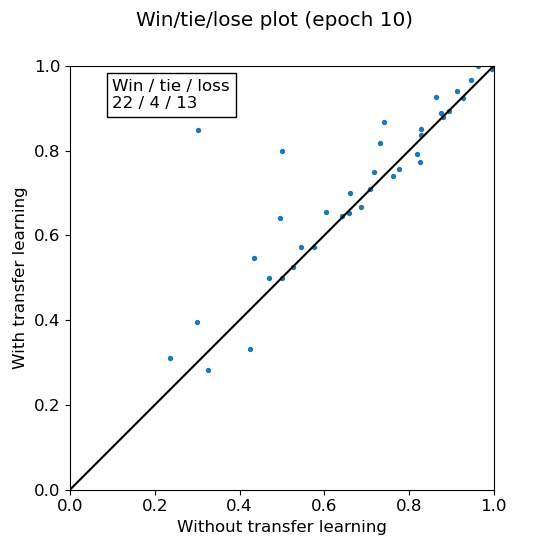
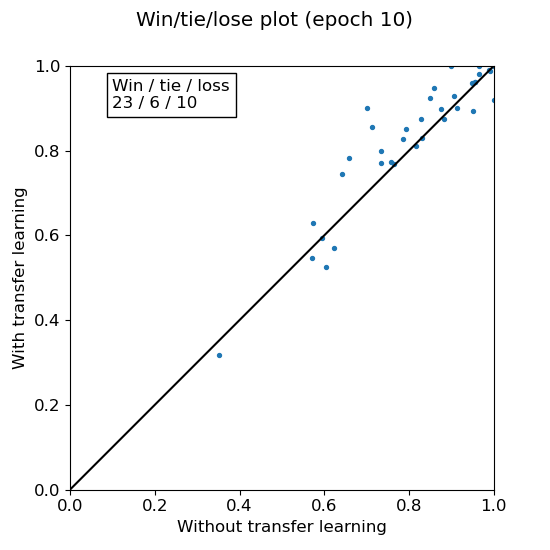
good results on ensemble

diff --git a/src/results/ensemble/get_metrics_per_epoch.py b/src/results/ensemble/get_metrics_per_epoch.py
@@ -9,7 +9,7 @@ import matplotlib
 matplotlib.rc("font", size=12)
 
 client = MlflowClient()
-runs = client.search_runs(["821661248566142980"])
+runs = client.search_runs(["133563556001612625"])
 
 history_detailed = []
 for run in runs:
